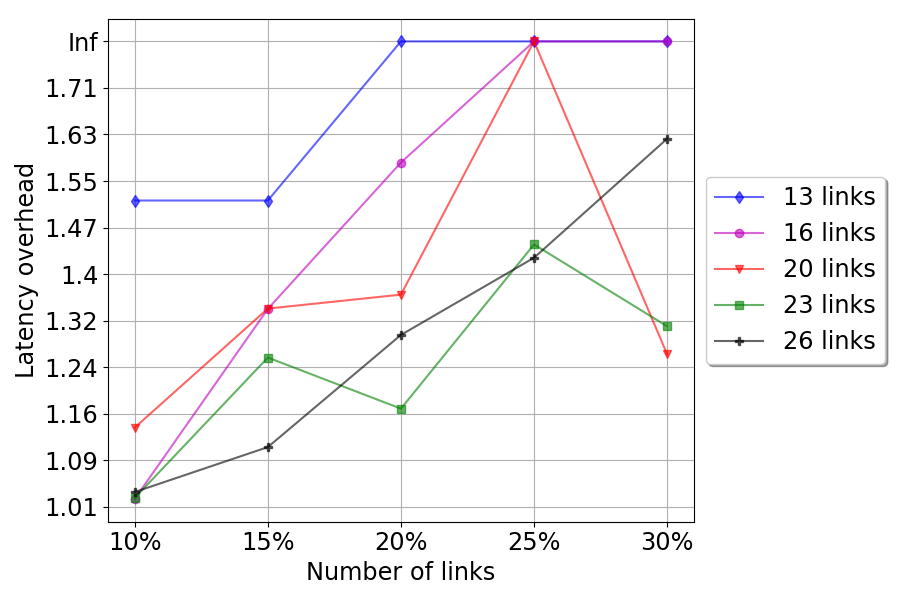
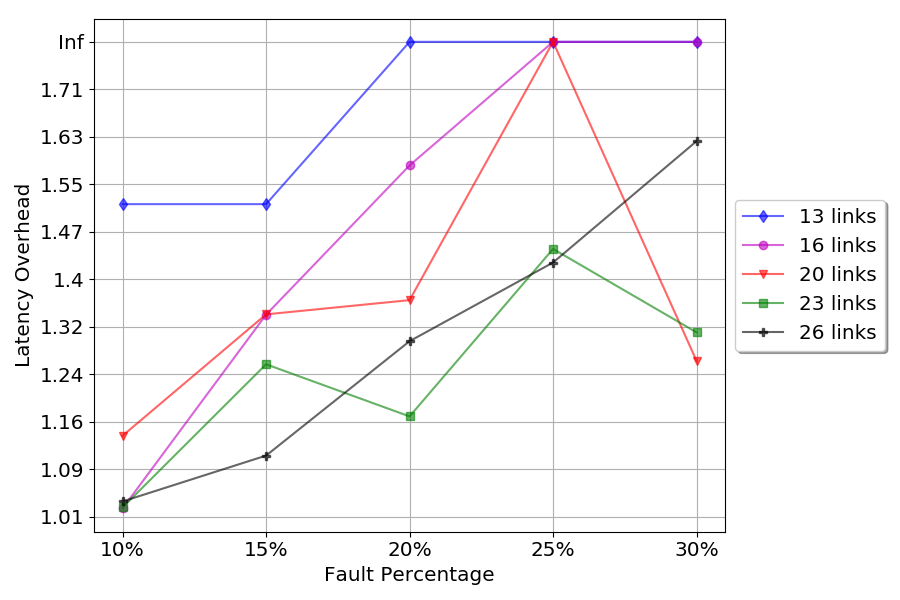
Changes label size of median fault graphs

diff --git a/analysis/analyse.py b/analysis/analyse.py
@@ -235,20 +235,20 @@ def fault_fitness_median_graph(selected, proportional, outdir):
                     marker=markers[count],
                     label=str(int(eps)) + " links")
             count += 1
-        ax.legend(shadow=True, fontsize='xx-large',
+        ax.legend(shadow=True, fontsize='x-large',
                 loc='center left', bbox_to_anchor=(1, 0.5))
 
         #sns.lineplot(x='perc', y='y', data=fit_prop, hue='x')
-        plt.xlabel("Number of links", fontsize="xx-large")
+        plt.xlabel("Fault Percentage", fontsize="x-large")
         if (proportional):
-            plt.ylabel("Latency overhead", fontsize="xx-large")
+            plt.ylabel("Latency Overhead", fontsize="x-large")
         else:
             plt.ylabel("Latency Estimation (Fitness)",
-                    fontsize="xx-large")
+                    fontsize="x-large")
 
         #plt.legend(bbox_to_anchor=(1.05, 1), loc=2, borderaxespad=0.)
         #plt.xticks(np.arange(xmin, xmax + 1))
-        plt.xticks(fit_prop['perc'].unique(), fontsize="xx-large")
+        plt.xticks(fit_prop['perc'].unique(), fontsize="x-large")
 
         step = (inf - ymin) / 10
         ytcks = np.arange(ymin, inf + 0.0001*step, step)
@@ -258,7 +258,7 @@ def fault_fitness_median_graph(selected, proportional, outdir):
             ytcks = [int(yt) for yt in ytcks]
         ytcks[-1] = 'Inf'
         plt.yticks(np.arange(ymin, inf + step, step),
-                ytcks, fontsize="xx-large")
+                ytcks, fontsize="x-large")
         plt.grid()
 
         outfname = os.path.join(outdir, filter_graph_name(graph))
